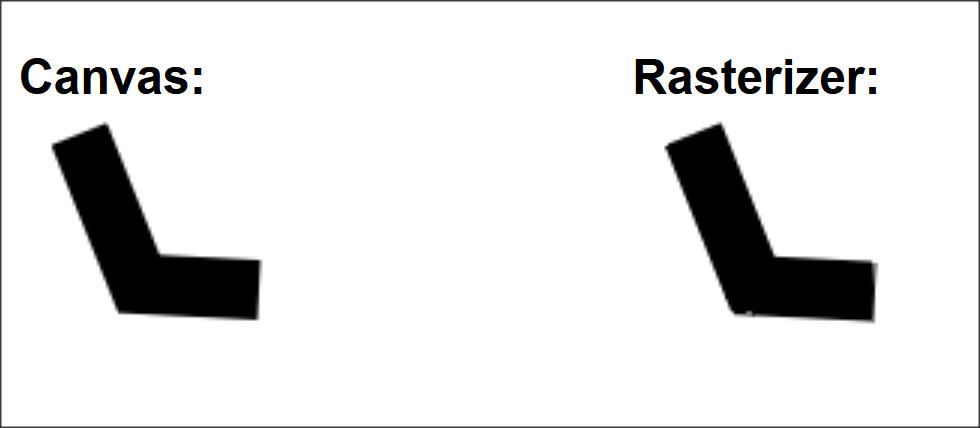
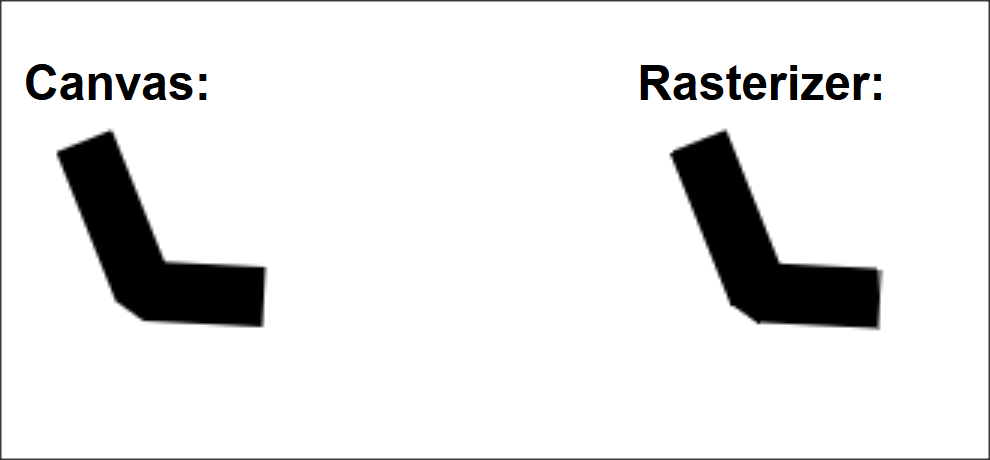
bevel/miter line join

diff --git a/test/lines.html b/test/lines.html
@@ -245,7 +245,7 @@ function drawGradientBezier(c, lw, ld, lc, grad1, grad2)
 
 //drawLine(20, 20, 80, 100, 1, [1,1]);
 //drawLine(20, 20, 80, 100, 4, [5,20], 'butt');
-drawLines(20, 10, 40, 60, 80, 62, 20, [], 'butt', 'miter');
+drawLines(20, 10, 40, 60, 80, 62, 20, [], 'butt', 'bevel');
 //drawGradientLine(20, 20, 120, 80, 20, [], 'square', 'miter', addColorStops(document.getElementById('test11').getContext('2d').createLinearGradient(20, 20, w - 20, h - 20)), addColorStops(Gradient.createLinearGradient(20, 20, w - 20, h - 20)));
 //drawGradientArc(50, 50, 20, 40, 30*Math.PI/180, 1, Math.PI/2, false, 2, [], 'butt', addColorStops(document.getElementById('test11').getContext('2d').createLinearGradient(20, 20, w - 20, h - 20)), addColorStops(Gradient.createLinearGradient(20, 20, w - 20, h - 20)));
 })();

diff --git a/README.md b/README.md
@@ -14,4 +14,4 @@ Rasterize, draw and fill lines, rectangles and curves. Even without canvas.
 
 **`miter` line join**
 
-![miter line join](/joinbevel.png)
+![miter line join](/joinmiter.png)
